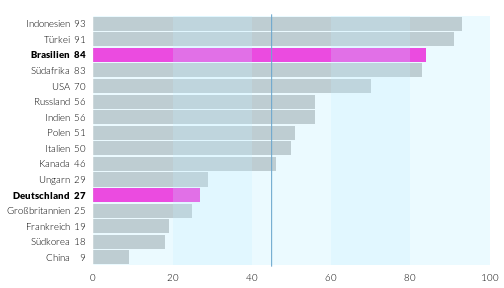
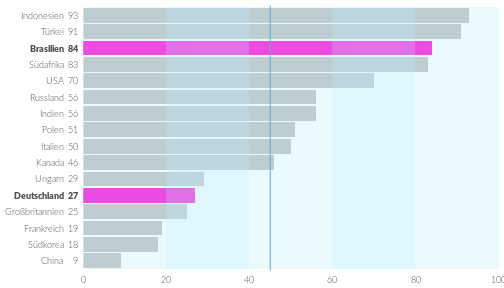
fixing barplot post

diff --git a/_posts/2015-05-15-Datendesign-Barplot-simple.md b/_posts/2015-05-15-Datendesign-Barplot-simple.md
@@ -9,7 +9,10 @@ archive: false
 
 
 
-This is a reproduction of the (*simple*) bar plot of chapter 6.1.1 in [*Datendesign mit R*](http://www.datendesign-r.de/) with [ggplot2](http://ggplot2.org/). To download the data you can use the following lines:
+This is a reproduction of the (*simple*) bar plot of chapter 6.1.1 in
+[*Datendesign mit R*](http://www.datendesign-r.de/) with
+[ggplot2](http://ggplot2.org/). To download the data you can use the following
+lines:
 
 
 {% highlight r %}
@@ -38,67 +41,12 @@ Here are some steps to modify the data such that it can be easily used with ggpl
 
 {% highlight r %}
 ipsos <- openxlsx::read.xlsx("../data/alle_daten/ipsos.xlsx") # this most likely needs adjustment
-{% endhighlight %}
-
-
-
-{% highlight text %}
-## Error in loadNamespace(name): there is no package called 'openxlsx'
-{% endhighlight %}
-
-
-
-{% highlight r %}
 ipsos <- ipsos[order(ipsos$Wert),]
-{% endhighlight %}
-
-
-
-{% highlight text %}
-## Error in eval(expr, envir, enclos): object 'ipsos' not found
-{% endhighlight %}
-
-
-
-{% highlight r %}
 ipsos$Land <- ordered(ipsos$Land, ipsos$Land)
-{% endhighlight %}
-
-
-
-{% highlight text %}
-## Error in factor(x, ..., ordered = TRUE): object 'ipsos' not found
-{% endhighlight %}
-
-
-
-{% highlight r %}
 ipsos$textFamily <- ifelse(ipsos$Land %in% c("Deutschland","Brasilien"),
                            "Lato Black", "Lato Light")
-{% endhighlight %}
-
-
-
-{% highlight text %}
-## Error in match(x, table, nomatch = 0L): object 'ipsos' not found
-{% endhighlight %}
-
-
-
-{% highlight r %}
 ipsos$labels <- paste0(ipsos$Land, ifelse(ipsos$Wert < 10, "     ", "  "),
                        ipsos$Wert)
-{% endhighlight %}
-
-
-
-{% highlight text %}
-## Error in paste0(ipsos$Land, ifelse(ipsos$Wert < 10, "     ", "  "), ipsos$Wert): object 'ipsos' not found
-{% endhighlight %}
-
-
-
-{% highlight r %}
 rect <- data.frame(
   ymin = seq(0, 80, 20),
   ymax = seq(20, 100, 20),
@@ -137,25 +85,17 @@ ggBar <- ggplot(ipsos) +
         axis.text.y = element_text(
           family = ipsos$textFamily),
         text = element_text(family = "Lato Light"))
-{% endhighlight %}
 
-
-
-{% highlight text %}
-## Error in ggplot(ipsos): object 'ipsos' not found
-{% endhighlight %}
-
-
-
-{% highlight r %}
 ggBar
 {% endhighlight %}
 
 
 
 {% highlight text %}
-## Error in eval(expr, envir, enclos): object 'ggBar' not found
+## Warning: Removed 14 rows containing missing values (position_stack).
 {% endhighlight %}
+
+<img src="/assets/images/2015-05-15-Datendesign-Barplot-simple/unnamed-chunk-5-1.png" title="center" alt="center" width="100%" />
 
 ## Annotations and layout
 
@@ -172,8 +112,8 @@ main <- vp_make(0.05, 0.05, 0.9, 0.8)
 title <- vp_make(0, 0.9, 0.6, 0.1)
 subtitle <- vp_make(0, 0.85, 0.4, 0.05)
 footnote <- vp_make(0.55, 0, 0.4, 0.05)
-annotation1 <- vp_make(0.7, 0.8, 0.225, 0.05)
-annotation2 <- vp_make(0.4, 0.8, 0.13, 0.05)
+annotation1 <- vp_make(0.7, 0.85, 0.225, 0.05)
+annotation2 <- vp_make(0.4, 0.85, 0.13, 0.05)
 
 # To see which space these viewports will use:
 grid.rect(gp = gpar(lty = "dashed"))
@@ -201,7 +141,7 @@ print(ggBar, vp = main)
 
 
 {% highlight text %}
-## Error in print(ggBar, vp = main): object 'ggBar' not found
+## Warning: Removed 14 rows containing missing values (position_stack).
 {% endhighlight %}
 
 
